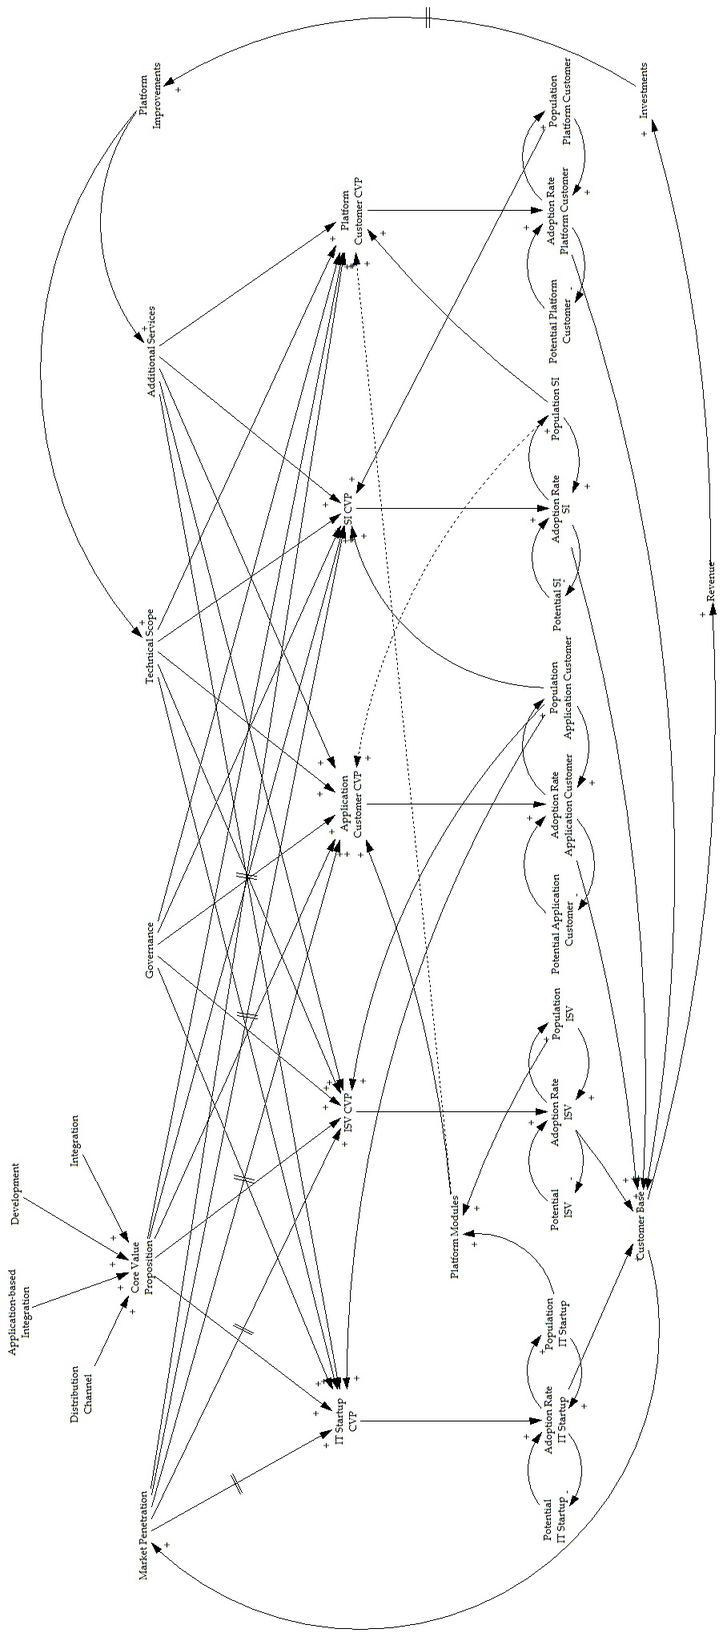
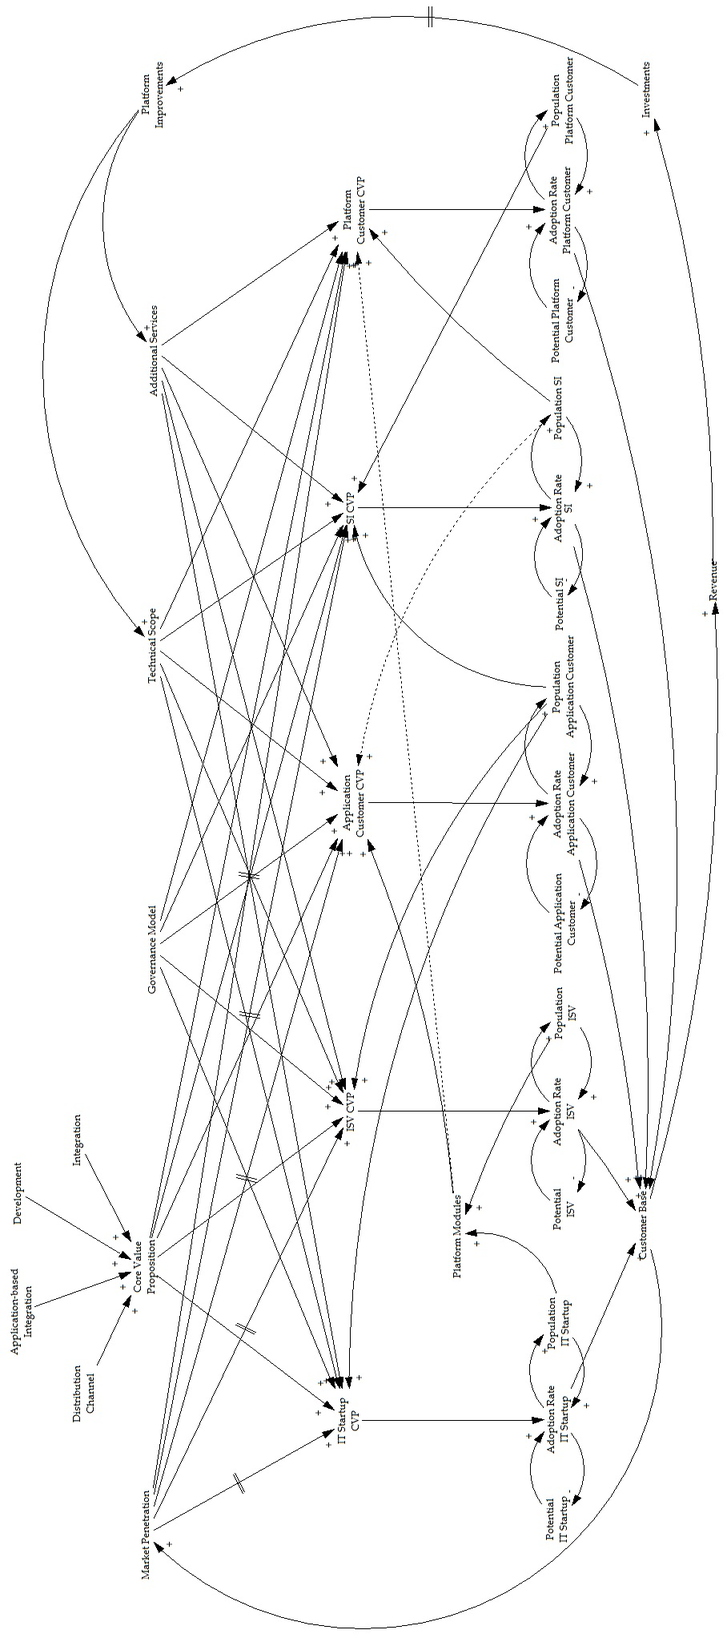
small changes

diff --git a/mtbmcc/chapters/chapter04.tex b/mtbmcc/chapters/chapter04.tex
@@ -7,7 +7,7 @@
 	--- Winston Churchill
 \end{flushright}
 
-Within this chapter, the crucial interdependencies -- high-leverage interventions and policies -- between the above described classification criteria respectively characteristics are reveled and illustrated using the concepts of system dynamics, more specifically by means of a \ac{CLD} and thereby also answering the \thref{srq2}. System dynamics is an approach to study complexity and was originally developed at the \ac{MIT} by Jay W. \citet{Forrester1961}. John D. \citeauthor{Sterman2000} applied system dynamics to business and organizational problems -- a comprehensive \citep{Sterman2000} as well as brief \citep{Sterman2001} introductory guide is provided. Within this thesis the notation and guidelines provided by John D. \citeauthor{Sterman2000} are used (please refer to the above mentioned sources). The ulterior motive behind \ac{CLD} is the simplification of reality by defining suitable model boundaries. \acp{CLD} \textit{"can never be comprehensive (and you shouldn't try: modeling is the art of simplification). They are also never final, but always provisional"} \citep[p. 166]{Sterman2000}. An important aspect of causal relationships within \acp{CLD} which should always bear in mind, is that the causal relations are modeled ceteris paribus (literally translated as "with other things the same" or "all other things being equal or held constant") \footnote{\textit{"A positive link means that if the cause increases, the effect increases above what it would otherwise have been, and if the cause decreases, the effect decreases below what it would otherwise have been. [\ldots] A negative link means that if the cause increases, the effect decreases below what it would otherwise have been, and if the cause decreases, the effect increases above what it would otherwise have been"} \citep[p. 139]{Sterman2000}.}.
+Within this chapter, the essential interdependencies -- high-leverage interventions and policies -- between the previous described classification criteria respectively characteristics are reveled and illustrated using the concepts of system dynamics, more specifically by means of a \ac{CLD} and thereby also answering the \thref{srq2}. System dynamics is an approach to study complexity and was originally developed at the \ac{MIT} by Jay W. \citet{Forrester1961}. John D. \citeauthor{Sterman2000} applied system dynamics to business and organizational problems -- a comprehensive \citep{Sterman2000} as well as brief \citep{Sterman2001} introductory guide is provided. Within this thesis the notation and guidelines provided by John D. \citeauthor{Sterman2000} are used (please refer to the above mentioned sources). The ulterior motive behind a \ac{CLD} is the simplification of reality by defining suitable model boundaries. \acp{CLD} \textit{"can never be comprehensive (and you shouldn't try: modeling is the art of simplification). They are also never final, but always provisional"} \citep[p. 166]{Sterman2000}. An important aspect of causal relationships within \acp{CLD} which should always bear in mind, is that the causal relations are modeled ceteris paribus (literally translated as "with other things the same" or "all other things being equal or held constant") \footnote{\textit{"A positive link means that if the cause increases, the effect increases above what it would otherwise have been, and if the cause decreases, the effect decreases below what it would otherwise have been. [\ldots] A negative link means that if the cause increases, the effect decreases below what it would otherwise have been, and if the cause decreases, the effect increases above what it would otherwise have been"} \citep[p. 139]{Sterman2000}.}.
 
 In the beginning of this chapter, the causal relationships for the generic customer segment in the \ac{PaaS} domain are discussed in Section \ref{ch:cld:cs}. Thereafter, interdependencies between the five identified customer segments are presented in Section \ref{ch:cld:csi}. At the end of this chapter, the overall \ac{CLD} is depicted and explained in Section \ref{ch:cld:bp}.
 
@@ -15,7 +15,7 @@ In the beginning of this chapter, the causal relationships for the generic custo
 
 Based on the outcome of the \thref{srq1} and, in addition, the information as well as insights gained through the 23 performed explorative case studies, the below presented relationships in the domain of the generic \ac{PaaS} customer segment were revealed. As mentioned earlier already, this process is by nature iterative and thereby also in alignment with the design cycle introduced by \citet{Hevner2004} respectively \citet{Hevner2007} and the \ac{DSR} methodology process model introduced by \citet{Peffers2007}. Also the evaluation with experts and a focus group was conducted iteratively and the hereafter discussed results represent the final version. Remarkable model changes during the origination process are mentioned.
 
-The heart of the first sub-model -- generic \ac{PaaS} customer segment (cf. Figure \ref{fig:cld_cs}) -- is the actual adoption process. This process is adopted from \citet[p. 18]{Sterman2001} and consists of the two main variables potential <customer segment>\footnote{The wildcard \texttt{<Customer Segment>} respectively \texttt{<customer segment>} represents the five earlier identified customer segments -- IT startup, \ac{SI}, \ac{ISV}, platform customer, and application customer.} and the <customer segment> population which both are influenced by the adoption rate <customer segment> and vice versa. Associated with an increase in the <customer segment> population, the value of favorable word of mouth variable will increase above what it would otherwise have been (and vice versa: if the <customer segment> population decreases, the value of the word of mouth variable will decrease below what it would otherwise have been). In the same vein, an increase respectively decrease in the value of the word of mouth variable increases respectively decrease the value of the adoption rate <customer segment>. To close this cycle, the adoption rate <customer segment> affects the <customer segment> population similarly, an increase in the adoption rate <customer segment> increases the <customer segment> population above what it would otherwise have been, and obvious vice versa. So far, the first self-reinforcing feedback loop (labeled as R\_1\footnote{R\_1: Adoption Rate <Customer Segment> -- <Customer Segment> Population -- Word of Mouth -- Adoption Rate <Customer Segment>}) in this model has been described -- \citet[p. 19]{Sterman2001} named this cycle \textit{"contagion loop"}. A self-reinforcing feedback loop will -- without any outside influences -- let all involved variables grow exponentially. Obvious, the <customer segment> population cannot growth exponentially and thus at least one variable out of the self-reinforcing feedback loop needs to be influenced exogenous. In this particular case, the adoption rate <customer segment> is regulated through the variable potential <customer segment>. An increase in the adoption rate <customer segment> will decreases the variable potential <customer segment> below what it would otherwise have been, hence the negative polarity on the link from the adoption rate <customer segment> to the potential <customer segment>. The variable potential <customer segment> itself influences the adoption rate <customer segment> contrary -- a decrease in the number of potential <customer segment> will decrease the number of adopters (adoption rate <customer segment>) below what it would otherwise have been. Due to the fact, that this feedback loop contains one link with a negative polarity, it is a balancing feedback loop (labeled as B\_1\footnote{B\_1: Adoption Rate <Customer Segment> -- Potential <Customer Segment> -- Adoption Rate <Customer Segment>}), \citet[p. 18]{Sterman2001} named this cycle as follows: \textit{"market saturation"}. This balancing feedback loop prevents the exponential growth of the quantity <customer segment> population and adjusts the adoption rate <customer segment> correspondingly.
+The heart of the first sub-model -- generic \ac{PaaS} customer segment (cf. Figure \ref{fig:cld_cs}) -- is the actual adoption process. This process is adopted from \citet[p. 18]{Sterman2001} and consists of the two main variables potential <customer segment>\footnote{The wildcard \texttt{<Customer Segment>} respectively \texttt{<customer segment>} represents the five earlier identified customer segments.} and the <customer segment> population which both are influenced by the adoption rate <customer segment> and vice versa. Associated with an increase in the <customer segment> population, the value of favorable word of mouth variable will increase above what it would otherwise have been (and vice versa: if the <customer segment> population decreases, the value of the word of mouth variable will decrease below what it would otherwise have been). In the same vein, an increase respectively decrease in the value of the word of mouth variable will increase respectively decrease the value of the adoption rate <customer segment>. To close this cycle, the adoption rate <customer segment> affects the <customer segment> population similarly, an increase in the adoption rate <customer segment> will increase the <customer segment> population above what it would otherwise have been, and obvious vice versa. So far, the first self-reinforcing feedback loop (labeled as R\_1\footnote{R\_1: Adoption Rate <Customer Segment> -- <Customer Segment> Population -- Word of Mouth -- Adoption Rate <Customer Segment>}) in this model has been described -- \citet[p. 19]{Sterman2001} named this cycle \textit{"contagion loop"}. A self-reinforcing feedback loop will -- without any outside influences -- let all involved variables grow exponentially. Obvious, the <customer segment> population cannot growth exponentially and thus at least one variable out of the self-reinforcing feedback loop needs to be influenced exogenous. In this particular case, the adoption rate <customer segment> is regulated through the variable potential <customer segment>. An increase in the adoption rate <customer segment> will decrease the variable potential <customer segment> below what it would otherwise have been, hence the negative polarity on the link from the adoption rate <customer segment> to the potential <customer segment>. The variable potential <customer segment> itself influences the adoption rate <customer segment> contrary -- a decrease in the number of potential <customer segment> will decrease the number of adopters (adoption rate <customer segment>) below what it would otherwise have been. Due to the fact, that this feedback loop contains one link with a negative polarity, it is a balancing feedback loop (labeled as B\_1\footnote{B\_1: Adoption Rate <Customer Segment> -- Potential <Customer Segment> -- Adoption Rate <Customer Segment>}), \citet[p. 18]{Sterman2001} named this loop as follows: \textit{"market saturation"}. This balancing feedback loop prevents the exponential growth of the quantity <customer segment> population and adjusts the adoption rate <customer segment> correspondingly.
 
 \begin{figure}[tb]
 	\centering
@@ -26,21 +26,21 @@ The heart of the first sub-model -- generic \ac{PaaS} customer segment (cf. Figu
 
 In addition to the two above mentioned links to the adoption rate <customer segment>, the main link in the \ac{PaaS} domain is the influence link through the <customer segment> customer value proposition. As discussed earlier, the business model conceptualization proposed by \citet{Johnson2008} emphasizes to provide a dedicated \ac{CVP} for each customer segment to take the different customer needs explicitly into account. Thus, all five identified customer segments receive their own, dedicated \ac{CVP}. The relationship between the <customer segment> customer value proposition and the adoption rate <customer segment> is naturally a link with a positive polarity -- an increase in the <customer segment> customer value proposition will increase the adoption rate <customer segment> above what it would otherwise have been. During the evolution of the qualitative model, the aspect of the \ac{CVP} was discussed quite controversial. It was challenged, if it is necessary to model the \ac{CVP} quintuple, particularly for each customer segment. Finally, the discussion resulted in agreement that the consideration of five different \acp{CVP} is crucial to constitute the causal relationships in the \ac{PaaS} domain.
 
-The <customer segment> customer value proposition itself is influenced sixfold -- through the (1) core value proposition, (2) governance, (3) technical scope, (4) additional services, (5) market penetration, and (6) platform improvements. During the analysis of the 23 explorative case studies (especially in regards to the \ac{CVP}) as well as during the development of the classification scheme, a correlation between the core value proposition and the <customer segment> customer value proposition has been recognized. For the purpose of classifying \ac{PaaS} providers' it was argued that a provider is classified mainly by one characteristic. However, in case of the qualitative model, the core value proposition of a \ac{PaaS} provider is composed of all four identified core value proposition characteristics (cf. Section \ref{ch:sota:cm}). The specific impact of the core value proposition onto the <customer segment> customer value proposition depends on the actual <customer segment> and needs to be further investigated for the transformation into a quantified model.
+The <customer segment> customer value proposition itself is influenced sixfold -- through the (1) core value proposition, (2) governance model, (3) technical scope, (4) additional services, (5) market penetration, and (6) platform improvements. During the analysis of the 23 explorative case studies (especially in regards to the \ac{CVP}) as well as during the development of the classification scheme, a correlation between the core value proposition and the <customer segment> customer value proposition has been recognized. For the purpose of classifying \ac{PaaS} providers' it was argued that a provider is classified mainly by one characteristic. However, in case of the qualitative model, the core value proposition of a \ac{PaaS} provider is composed of all four identified core value proposition characteristics. The specific impact of the core value proposition onto the <customer segment> customer value proposition depends on the actual <customer segment> and needs to be further investigated for the transformation into a quantified model.
 
-Moreover, the <customer segment> customer value proposition is influenced by two further classification criteria's -- namely governance and technical scope. Both criteria are mapped onto an ordinal scale, so it is straightforward to model the impact on the <customer segment> customer value proposition. An increase in the value of the technical scope or governance will increase the <customer segment> customer value proposition above what it would otherwise have been. Also here the specific impact of both values onto the <customer segment> customer value proposition depends on the actual <customer segment> and needs to be further investigated for the transformation into a quantified model. The two variables governance and core value proposition (respectively its four influence variables) will remain constant, due to the fact that these variables are not influenced itself by any other variables.
+Moreover, the <customer segment> customer value proposition is influenced by two further classification criteria's -- namely the governance model and technical scope. Both criteria are mapped onto an ordinal scale, so it is straightforward to model the impact on the <customer segment> customer value proposition. An increase in the value of the technical scope or governance model will increase the <customer segment> customer value proposition above what it would otherwise have been. Also here the specific impact of both values onto the <customer segment> customer value proposition depends on the actual <customer segment> and needs to be further investigated for the transformation into a quantified model. The two variables governance model and core value proposition (respectively its four influence variables) will remain constant, due to the fact that these variables are not influenced itself by any other variables.
 
 Another point which was discussed during the 	evolution of this qualitative model was how to include the identified revenue streams into the model. Based on the lack of knowledge of user preferences concerning the revenue streams, these are excluded of the model because they cannot be modeled realistic. Further research is necessary to determine which revenue streams are preferred by the \ac{PaaS} stockholders. However, the analysis of the 23 explorative case studies revealed that nearly all \ac{PaaS} providers offer complementary products and especially services, for instance trainings, certifications, and consultancy services. Hence, it is inferred that these complements (henceforth referred to as additional services) influence the <customer segment> customer value proposition favorable. An increase in the value of the additional services variable will increase the value of the <customer segment> customer value proposition above what it would otherwise have been. Once again, the specific impact of the variable additional services onto the <customer segment> customer value proposition depends on the actual <customer segment> and needs to be further investigated for the transformation into a quantified model.
 
-In the opposite direction, the adoption rate <customer segment> influences the variable customer base positive -- an increase in the adoption rate <customer segment> will increase the customer base above what it would otherwise have been. The impacts of the variable customer base are twofold. First, an increase in the variable customer base will increase the variable revenue above what it would otherwise have been. In return, an increase in the variable revenue will increase the value of the variable investments above what it would otherwise have been. Continuing, an increase in the variable investments will increase the variable platform improvements delayed above what it would otherwise have been. The variable platform improvements influences three above already mentioned variables -- <customer segment> customer value proposition, additional services, and technical scope -- and thus three further self-reinforcing feedback loops can be identified (labeled as R\_2\footnote{R\_2: Customer Base -- Revenue -- Investments --- Platform Improvements -- <Customer Segment> Customer Value Proposition -- Adoption Rate <Customer Segment> -- Customer Base}, R\_3\footnote{R\_3: Customer Base -- Revenue -- Investments --- Platform Improvements -- Additional Services -- <Customer Segment> Customer Value Proposition -- Adoption Rate <Customer Segment> -- Customer Base}, and R\_4\footnote{R\_4: Customer Base -- Revenue -- Investments --- Platform Improvements -- Technical Scope -- <Customer Segment> Customer Value Proposition -- Adoption Rate <Customer Segment> -- Customer Base}). As already mentioned a couple of time above, the specific impact of the variable platform improvements onto the <customer segment> customer value proposition, additional services, and technical scope depends on the actual <customer segment> and needs to be further investigated for the transformation into a quantified model.
+In the opposite direction, the adoption rate <customer segment> influences the variable customer base positive -- an increase in the adoption rate <customer segment> will increase the customer base above what it would otherwise have been. The impacts of the variable customer base are twofold. First, an increase in the variable customer base will increase the variable revenue above what it would otherwise have been. In return, an increase in the variable revenue will increase the value of the variable investments above what it would otherwise have been. Continuing, an increase in the variable investments will increase the variable platform improvements delayed above what it would otherwise have been. The variable platform improvements influences three above already mentioned variables -- <customer segment> customer value proposition, additional services, and technical scope -- and thus three further self-reinforcing feedback loops are identified (labeled as R\_2\footnote{R\_2: Customer Base -- Revenue -- Investments --- Platform Improvements -- <Customer Segment> Customer Value Proposition -- Adoption Rate <Customer Segment> -- Customer Base}, R\_3\footnote{R\_3: Customer Base -- Revenue -- Investments --- Platform Improvements -- Additional Services -- <Customer Segment> Customer Value Proposition -- Adoption Rate <Customer Segment> -- Customer Base}, and R\_4\footnote{R\_4: Customer Base -- Revenue -- Investments --- Platform Improvements -- Technical Scope -- <Customer Segment> Customer Value Proposition -- Adoption Rate <Customer Segment> -- Customer Base}). As already mentioned a couple of times above, the specific impact of the variable platform improvements onto the <customer segment> customer value proposition, additional services, and technical scope depends on the actual <customer segment> and needs to be further investigated for the transformation into a quantified model.
 
 The second impact of the variable customer base concerns the variable market penetration. An increase in the variable customer base will increase the variable market penetration above what it would otherwise have been. Within the 23 explorative case studies, it was remarkable that a company's brand image respectively the company's reputation was an important element of their \ac{CVP}. It is concluded, that this issue will influence the <customer segment> customer value proposition, even though this impact will occur delayed. Hence, an increase in the variable market penetration will increase the variable <customer segment> customer value proposition delayed above what it would otherwise have been. The above described causal relationships constitute the fifth self-reinforcing feedback loop (labeled as R\_5\footnote{R\_5: Customer Base -- Market Penetration --- <Customer Segment> Customer Value Proposition -- Adoption Rate <Customer Segment> -- Customer Base}).
 
 \section{Platform as a Service Customer Segment Interdependencies}\label{ch:cld:csi}
 
-In this section the interdependencies between the in Chapter \ref{ch:sota} identified customer segments are discussed and depicted in Figure \ref{fig:cld_csi}. \citet[p. 33]{Cusumano2010} reasoned, that \textit{"the critical distinguishing feature of an industry platform and ecosystem is the creation of 'network effects'. These are positive feedback loops that can grow at geometrically increasing rates as adoption of the platform and the complements rise. The network effects can be very powerful \ldots~."} The in the previous section described self-reinforcing feedback look R\_1 represents a direct network effect or also known as same-side network effect. Gaming platforms are a well-known example of this network effect -- the more gamers are using a certain platform, the more valuable the platform becomes for other gamers. However, the direct network effects within the \ac{PaaS} domain are not considered as the crucial decisive factor. In contrast, indirect network effects are likely to be one of the main decisive factors. In general, an indirect network effect arises if there are cross-sided network effect in both directions (from A to B and vice versa). Once again gaming platforms are used as a common example: The platform value for gamers depends among other things on the number of games available for the platform. On the other side, these games are provided by game developers whose perceived platform value depends on the number of gamers using the platform. Frequently accompanied by such indirect network effects is the so called chicken-and-egg launch problem. 
+In this section the interdependencies between the in Chapter \ref{ch:sota} identified customer segments are discussed and depicted in Figure \ref{fig:cld_csi}. \citet[p. 33]{Cusumano2010} reasoned, that \textit{"the critical distinguishing feature of an industry platform and ecosystem is the creation of 'network effects'. These are positive feedback loops that can grow at geometrically increasing rates as adoption of the platform and the complements rise. The network effects can be very powerful \ldots~."} The in the previous section described self-reinforcing feedback look R\_1 represents a direct network effect or also known as same-side network effect. Gaming platforms are a well-known example of this network effect -- the more gamers are using a certain platform, the more valuable the platform becomes for other gamers. However, the direct network effects within the \ac{PaaS} domain are not considered as the crucial decisive factor. In contrast, indirect network effects are likely to be one of the main decisive factors. In general, an indirect network effect arises if there are cross-sided network effect in both directions (from A to B and vice versa). Once again gaming platforms are used as a common example: The platform value for gamers depends among other things on the number of games available for the platform. On the other side, those games are provided by game developers whose perceived platform value depends on the number of gamers using the platform. Frequently accompanied by such indirect network effects is the so called chicken-and-egg launch problem. 
 
-Platform customer are characterized as upper \acp{SME} or large enterprises using the platform mainly for internal purposes. The introduction of a platform for these customers is most likely a extensive project which is often supported externally through \acp{SI}. Therefore, an increase in the platform customer population will increase the systems integrator population above what it would otherwise have been. Due to illustration reasons, the above described causal relationship as well as the corresponding depiction in Figure \ref{fig:cld_csi} are simplified. Actually an increase in the platform customer population will increase the systems integrator customer value proposition, which in turn will increase the adoption rate systems integrator, which finally will increase the systems integrator population. This simplification applies also to the hereafter mentioned \ac{PaaS} customer segment dependencies. In the opposite direction, an increase in the systems integrator population will increase the platform customer population above what it would otherwise have been. Due to the fact that this causal relation is considered as weak, because no potential platform customer will adopt the platform solely if there is a large systems integrator population, it is shown dashed. However, even though this relationship is weak, a correlation can be noticed. Taken together the sixth self-reinforcing feedback loop has been found (labeled as R\_6\footnote{R\_6: Platform Customer Population -- Systems Integrator Population - - Platform Customer Population}). The platform customer population is further influenced by the variable platform modules\footnote{Platform modules are defines as \textit{"an add-on software subsystem that connects to the platform to add functionality to the platform"} \citep[p. 676]{Tiwana2010}, cf. Section \ref{ch:tf:paas:def}.}, although with a weak impact.
+Platform customers are characterized as upper \acp{SME} or large enterprises using the platform mainly for internal purposes. The introduction of a platform for these customers is most likely an extensive project which is often supported externally through \acp{SI}. Therefore, an increase in the platform customer population will increase the systems integrator population above what it would otherwise have been. Due to illustration reasons, the above described causal relationship as well as the corresponding depiction in Figure \ref{fig:cld_csi} are simplified. Actually an increase in the platform customer population will increase the systems integrator customer value proposition, which in turn will increase the adoption rate systems integrator, which finally will increase the systems integrator population. This simplification applies also to the hereafter mentioned \ac{PaaS} customer segment dependencies. In the opposite direction, an increase in the systems integrator population will increase the platform customer population above what it would otherwise have been. Due to the fact that this causal relation is considered as weak, because no potential platform customer will adopt the platform solely if there is a large systems integrator population, it is shown dashed. However, even though this relationship is weak, a correlation can be noticed. Taken together the sixth self-reinforcing feedback loop has been found (labeled as R\_6\footnote{R\_6: Platform Customer Population -- Systems Integrator Population - - Platform Customer Population}). The platform customer population is further influenced by the variable platform modules\footnote{Platform modules are defined as \textit{"an add-on software subsystem that connects to the platform to add functionality to the platform"} \citep[p. 676]{Tiwana2010}, cf. Section \ref{ch:tf:paas:def}.}, although again with a weak impact.
 
 \begin{figure}[tb]
 	\centering
@@ -49,7 +49,7 @@ Platform customer are characterized as upper \acp{SME} or large enterprises usin
 	\label{fig:cld_csi}
 \end{figure}
 
-A similar feedback loop can be identified between the systems integrator population and the application customer population. Also the introduction of platform modules is occasional supported through \acp{SI}. Therefore an increase in the application customer population will increase the systems integrator population above what it would otherwise have been. As with the platform customers, the application customer population is influenced by the systems integrator population, notwithstanding these causal connection is relatively weak. The above mentioned correlation builds the seventh self-reinforcing feedback loop (labeled as R\_7\footnote{R\_7: Systems Integrator Population - - Application Customer Population -- Systems Integrator Population}).
+A similar feedback loop can be identified between the systems integrator population and the application customer population. Also the introduction of platform modules is occasional supported through \acp{SI}. Therefore an increase in the application customer population will increase the systems integrator population above what it would otherwise have been. As with the platform customers, the application customer population is influenced by the systems integrator population, notwithstanding this causal connection is relatively weak. The above mentioned correlation builds the seventh self-reinforcing feedback loop (labeled as R\_7\footnote{R\_7: Systems Integrator Population - - Application Customer Population -- Systems Integrator Population}).
 
 Platform modules -- applications, services, or add-ons -- are developed and provided by IT startups and \acp{ISV} and thus an increase in the IT startup population or independent software vendor population will increase the variable platform modules above what it would otherwise have been. The variable platform modules itself influences the application customer population positive -- an increase in the variable platform modules will increase the application customer population above what it would otherwise have been. And finally, the application customer population influences both platform module provider populations, an increase in the application customer population will increase the IT startup population as well as independent software vendor population above what it would otherwise have been. Thereby the last two self-reinforcing feedback loops are closed (labeled as R\_8\footnote{R\_8: Application Customer Population -- IT Startup Population -- Platform Modules -- Application Customer Population}  and R\_9\footnote{R\_9: Application Customer Population -- Independent Software Vendor Population -- Platform Modules -- Application Customer Population}).
 
